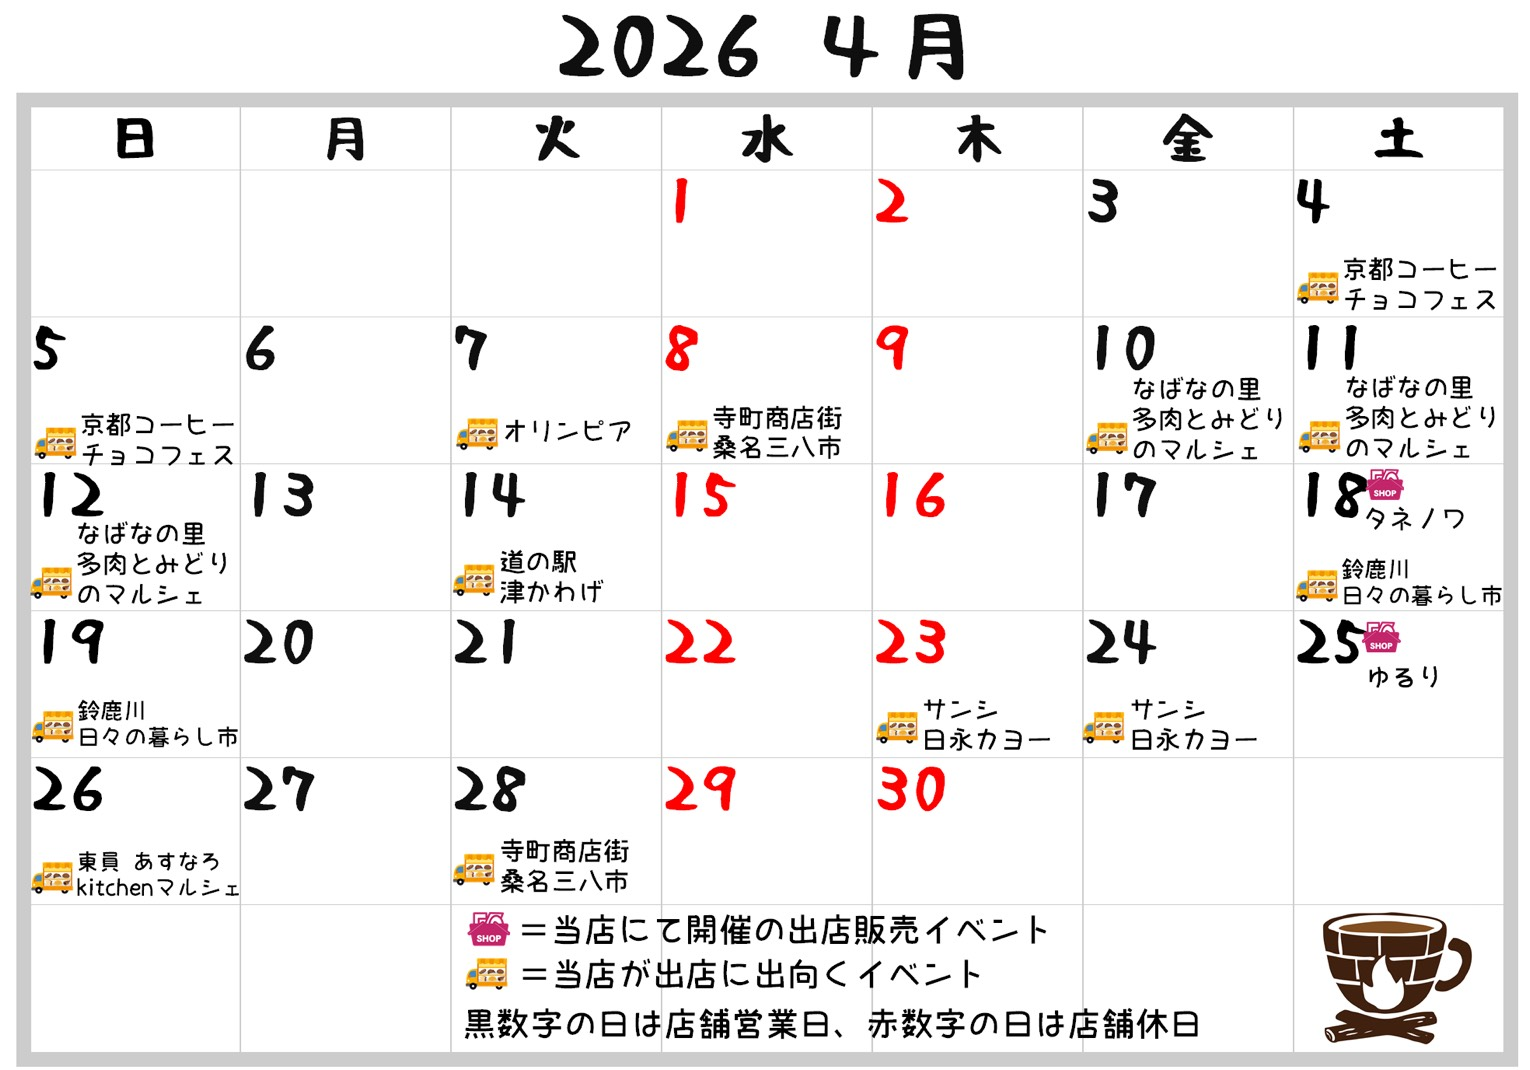
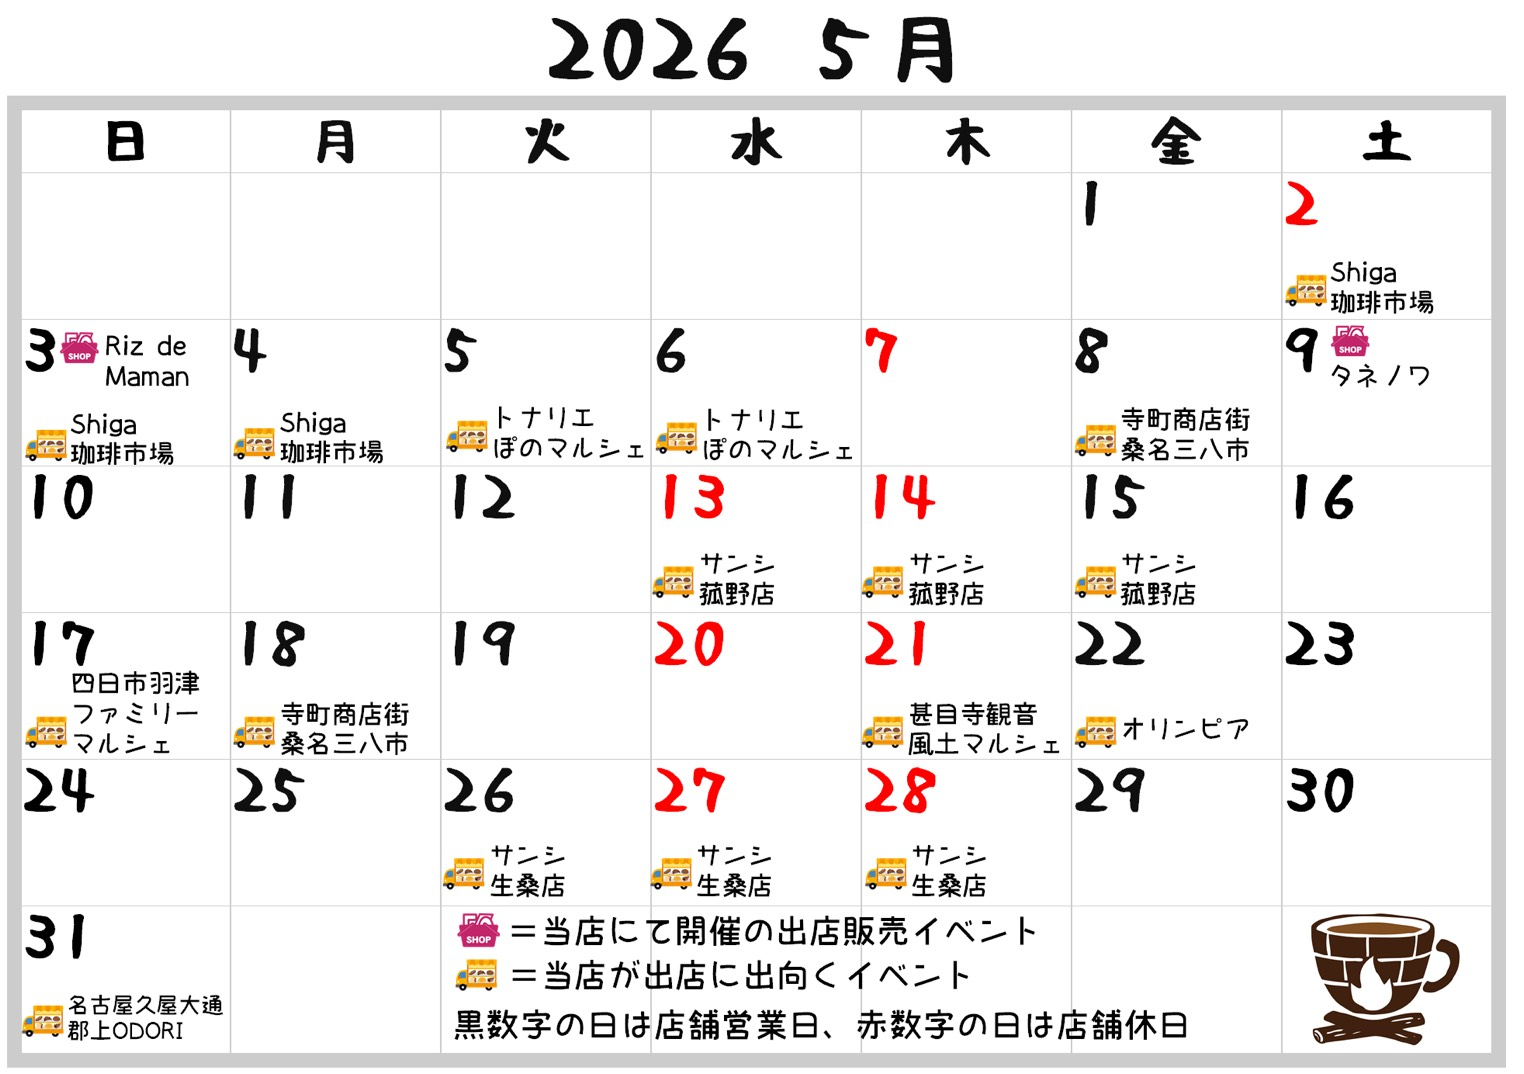
豆変更　店舗追加

diff --git a/bean2.html b/bean2.html
@@ -380,7 +380,7 @@
     <p class="price">900円/100g</p>
     <p class="price">1,700円/200g</p>
 </h2>
-<!--東ティモール　ハヒマウ-->
+<!--東ティモール　レヌマタ-->
 <h2>
     <table id="East Timor">
         <tr>
@@ -388,7 +388,7 @@
                 <img class="beancup" src="img/East Timor.jpg" weigh="300" height="300" alt="East Timor">
             </td>
             <td>
-                <p class="name">東ティモール<br>ハヒマウ</p>
+                <p class="name">東ティモール<br>レヌマタ</p>
             </td>
         </tr>
         <tr>
@@ -404,7 +404,7 @@
                         <td colspan="1"><img src="img/bean.png" weigh="30" height="30" alt="blend"></td>
                         <td colspan="1"><img src="img/bean.png" weigh="30" height="30" alt="blend"></td>
                         <td colspan="1"><img src="img/bean.png" weigh="30" height="30" alt="blend"></td>
-                        <td colspan="1"><div class="half"><img src="img/bean.png" weigh="30" height="30"alt="half"></div></td>                      
+                        <td colspan="1"><img src="img/bean.png" weigh="30" height="30" alt="blend"></td>                 
                     </tr>
                 </table>
                 <table class="evaluation" border="0" align="left">
@@ -426,12 +426,10 @@
         </tr>
         <tr>
             <th colspan="2">
-            <p class="text">&emsp;~東ティモール ハヒマウ~<br>
-                東ティモール、アイナロ県ハヒマウ集落にて作られたコーヒー豆です。<br>
+            <p class="text">&emsp;~東ティモール　レヌマタ~<br>
+                東ティモール、エルメラ県レテフォホ群のレヌマタ村にて作られたコーヒー豆です。<br>
                 農薬不使用で栽培され、ウォッシュド精製されています。<br>
-                中浅煎り仕上げで軽やかな口当たりとレモンのような酸味と甘みが特徴的です。<br>
-                酸味のあるコーヒーが好きな方、<br>
-                あっさりとした口当たりが好きな方にオススメです。<br>
+                中浅煎り仕上げで軽やかな口当たりと甲州白ワインやレモンのような風味が特徴的です。<br>
             </p>
         </th>
         </tr>

diff --git a/offer.html b/offer.html
@@ -102,6 +102,7 @@
         <li class="list"><a href="offer.html#tsutau">伝-TSUTAU-珈琲</a></li>
         <li class="list"><a href="offer.html#chobicorosweets">ちょびころマフィン</a></li>
         <li class="list"><a href="offer.html#La Chatin">La Chatin -ラ・シャイン-</a></li>
+        <li class="list"><a href="offer.html#BREW">BREW</a></li>
     </ol>
     <div class="full" id="yururi">  
         <a>
@@ -211,6 +212,20 @@
             <br>
             <p class="text">オリジナルブレンドコーヒーのドリンク提供</p>
             <p class="text"><a href="https://instagram.com/la_chatin" target="_blank" rel="noopener noreferrer">Instagram</a></p>
+            <br>
+        </a>
+    </div>
+        <div class="full" id="BREW">  
+        <a>
+            <p class="menu">BREW</p>
+            <img class="images" src="img/BREW.jpg" height="400px">
+            <p class="text">住所：三重県四日市市松本３丁目13-5</p>
+            <p class="text">営業時間</p>
+            <p class="text">8:00～17:00(月・火・水・金・日)</p>
+            <p class="text">8:00～21:00(土)</p>
+            <br>
+            <p class="text">オリジナルブレンドコーヒーのドリンク提供</p>
+            <p class="text"><a href="https://www.instagram.com/brew0927" target="_blank" rel="noopener noreferrer">Instagram</a></p>
             <br>
         </a>
     </div>

diff --git a/bean.html b/bean.html
@@ -164,12 +164,12 @@
                         </div>
                     </h2>
                 </il>
-            <!--東ティモール　ライメラ-->
+            <!--東ティモール　レヌマタ-->
                 <li>
                     <h2 class="box">
                         <div>
                             <img class="beancup" src="img/East Timor.jpg" alt="East Timor">
-                            <p>東ティモール<br>ハヒマウ</p>
+                            <p>東ティモール<br>レヌマタ</p>
                             <a href="bean2.html#East Timor"></a>
                         </div>
                     </h2>
